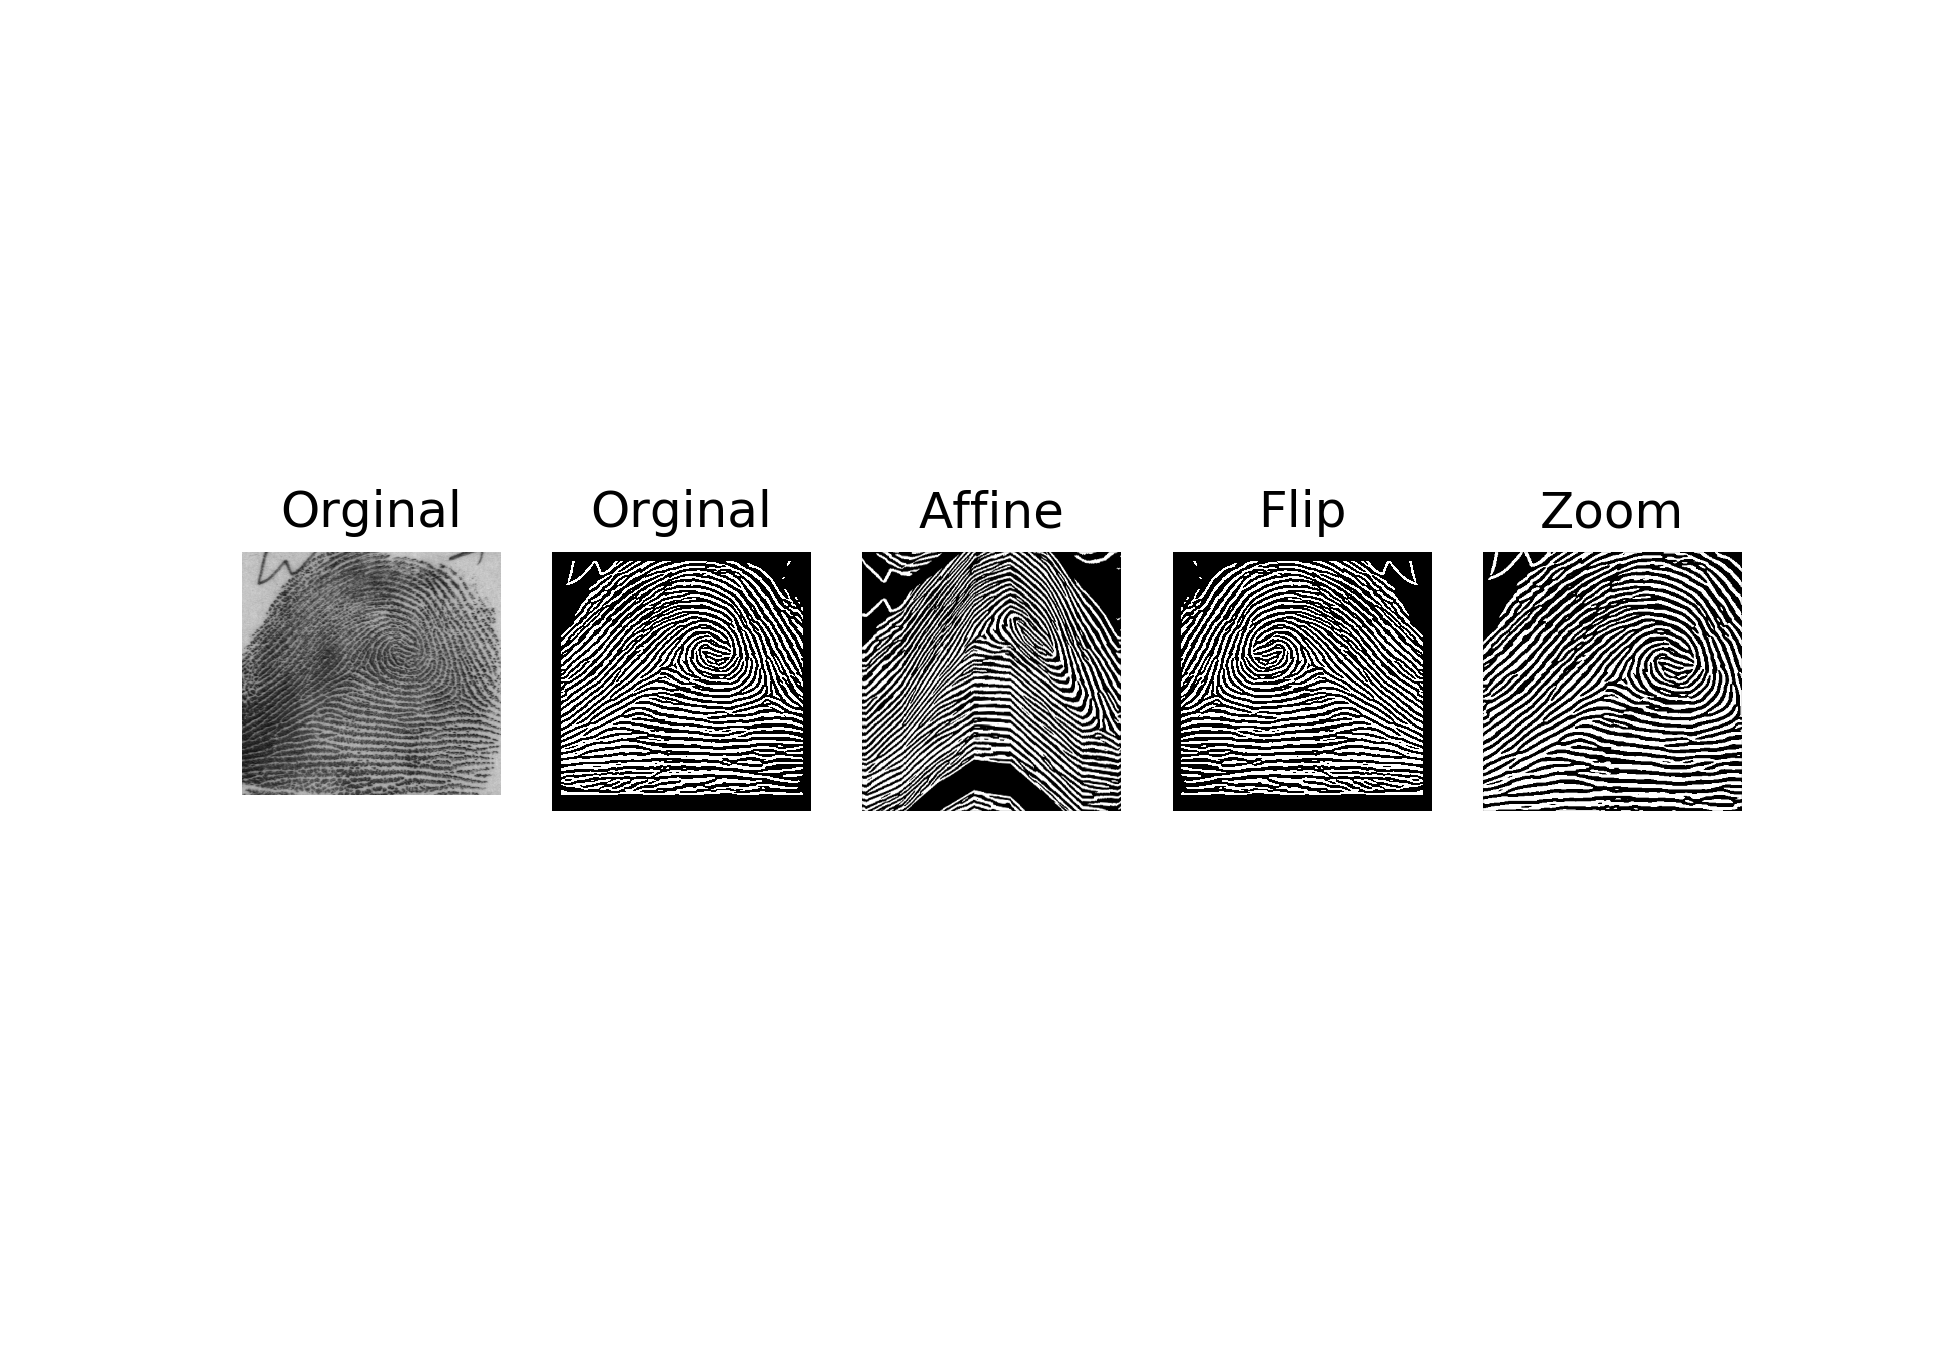
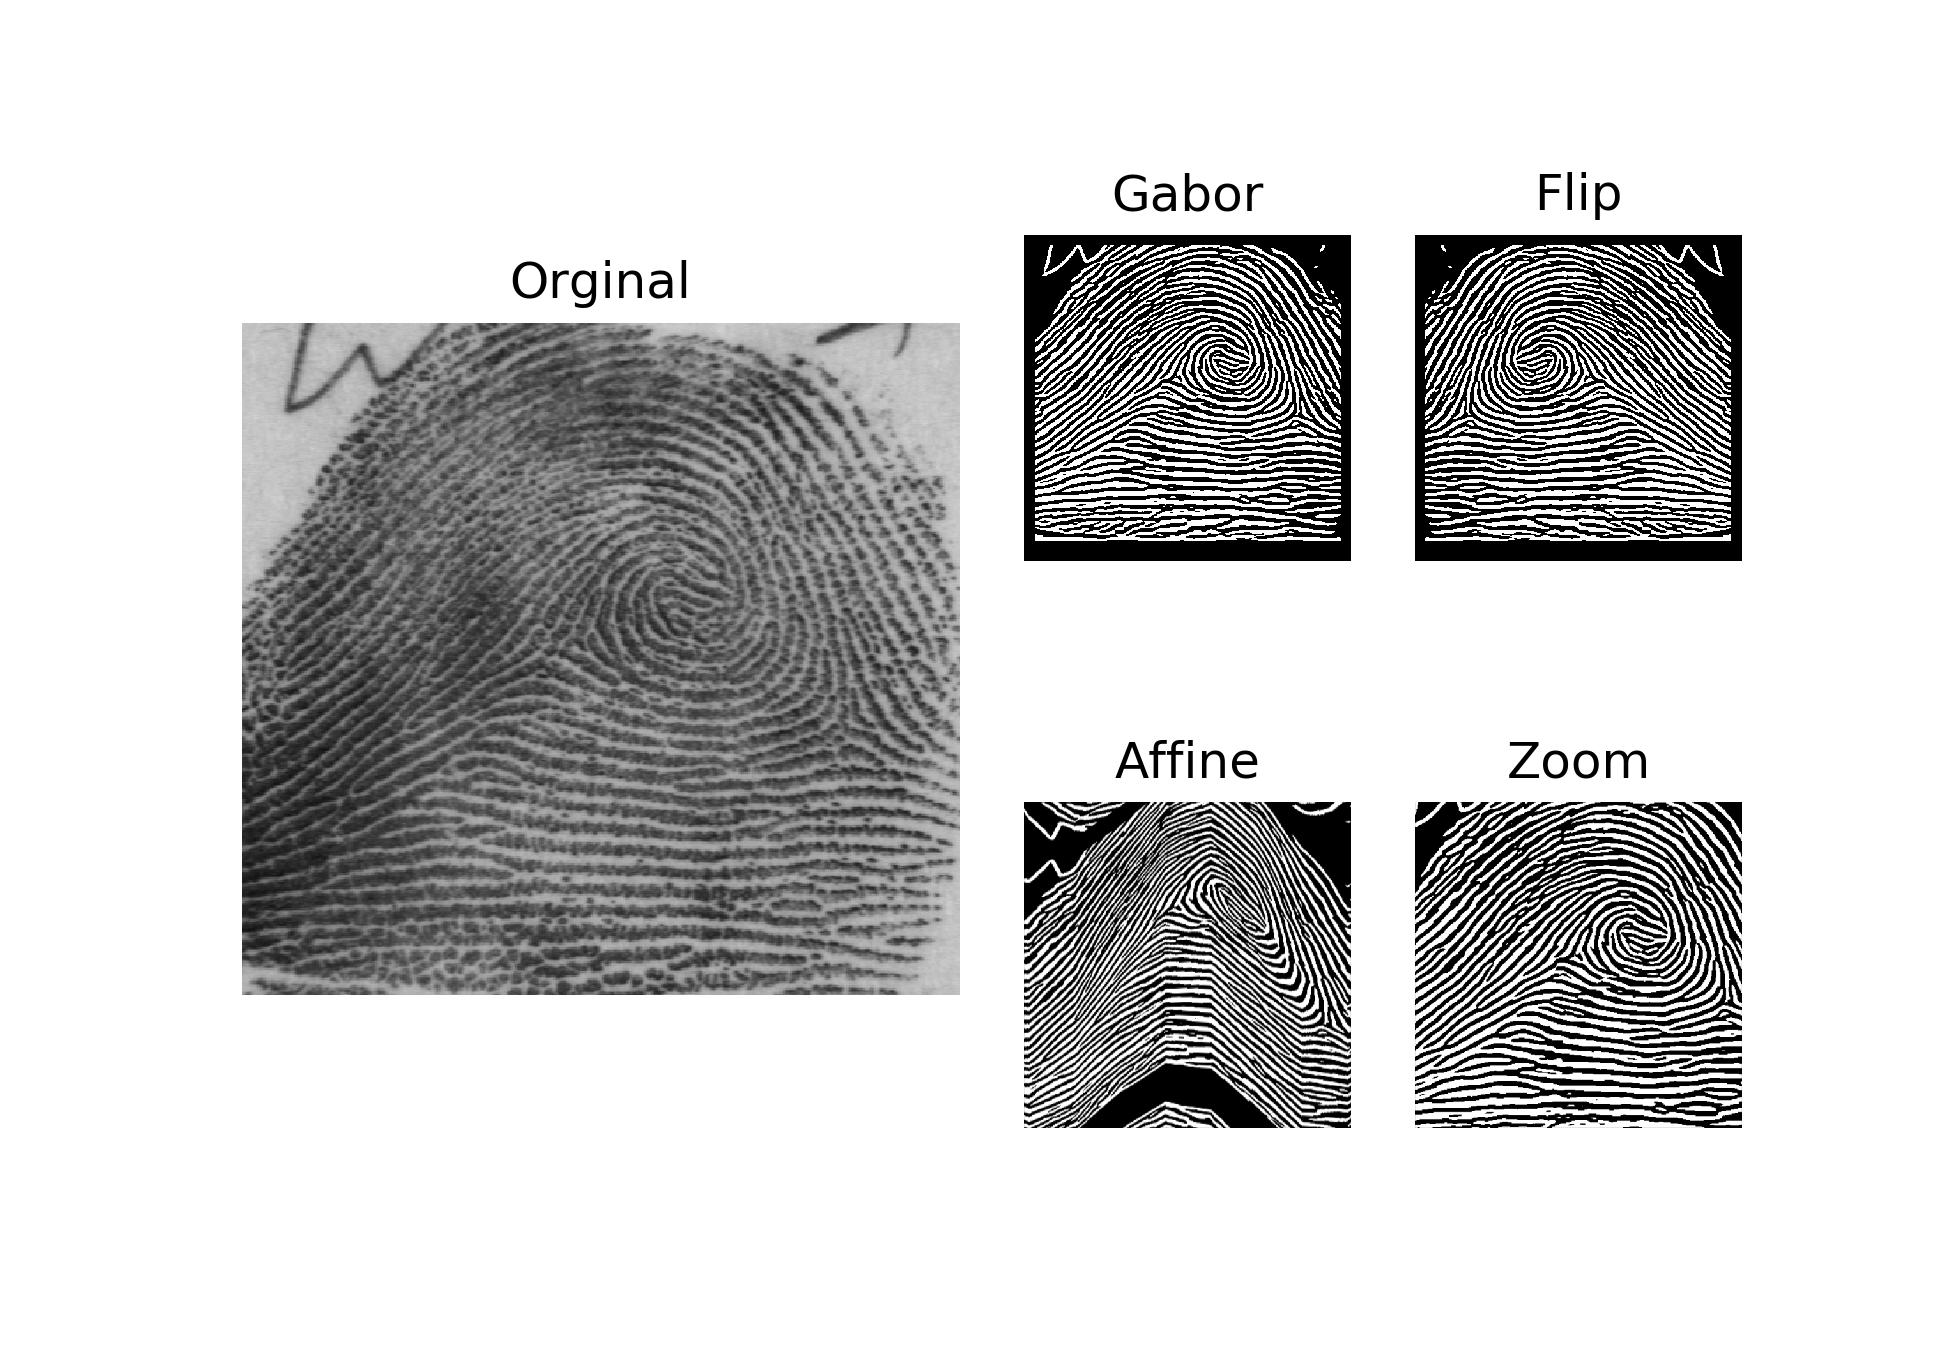
tweaks

diff --git a/utils/augment.py b/utils/augment.py
@@ -410,35 +410,36 @@ def example_grayscale():
 
 def example_binary():
     with Image.open('sd04/png_txt/figs_0/f0001_01.png') as x_img:
-        plt.figure(figsize=(6.45,4.50), dpi=300)
-        plt.subplot(1,5,1)
-        plt.imshow(x_img, cmap=plt.cm.gray, interpolation='none')
-        plt.axis('off')
-        plt.title('Orginal')
+        fig = plt.figure(figsize=(6.45,4.50), dpi=300)
+        ax1 = plt.subplot2grid((2, 4), (0, 0), colspan=2, rowspan=2)
+        ax2 = plt.subplot2grid((2, 4), (0, 2), colspan=1, rowspan=1)
+        ax3 = plt.subplot2grid((2, 4), (1, 2), colspan=1, rowspan=1)
+        ax4 = plt.subplot2grid((2, 4), (0, 3), colspan=1, rowspan=1)
+        ax5 = plt.subplot2grid((2, 4), (1, 3), colspan=1, rowspan=1)
+
+        ax1.imshow(x_img, cmap=plt.cm.gray, interpolation='none')
+        ax1.axis('off')
+        ax1.set_title('Original')
 
     with Image.open('enhanced/f0001_01.png') as x_img:
         x_img_array = np.array(x_img)
 
-        plt.subplot(1,5,2)
-        plt.imshow(x_img, cmap=plt.cm.gray, interpolation='none')
-        plt.axis('off')
-        plt.title('Orginal')
+        ax2.imshow(x_img, cmap=plt.cm.gray, interpolation='none')
+        ax2.axis('off')
+        ax2.set_title('Gabor')
 
-        plt.subplot(1,5,3)
-        plt.imshow(affine_transform_image(x_img_array, False), cmap=plt.cm.gray, interpolation='none')
-        plt.axis('off')
-        plt.title('Affine')
+        ax3.imshow(affine_transform_image(x_img_array, False), cmap=plt.cm.gray, interpolation='none')
+        ax3.axis('off')
+        ax3.set_title('Affine')
 
-        plt.subplot(1,5,4)
         _flip_img, _ = flip_image(x_img_array, False)
-        plt.imshow(_flip_img, cmap=plt.cm.gray, interpolation='none')
-        plt.axis('off')
-        plt.title('Flip')
+        ax4.imshow(_flip_img, cmap=plt.cm.gray, interpolation='none')
+        ax4.axis('off')
+        ax4.set_title('Flip')
 
-        plt.subplot(1,5,5)
-        plt.imshow(zoom_image(x_img_array, False), cmap=plt.cm.gray, interpolation='none')
-        plt.axis('off')
-        plt.title('Zoom')
+        ax5.imshow(zoom_image(x_img_array, False), cmap=plt.cm.gray, interpolation='none')
+        ax5.axis('off')
+        ax5.set_title('Zoom')
 
         plt.savefig('figs/plot_augmentations_binary.png')
 
